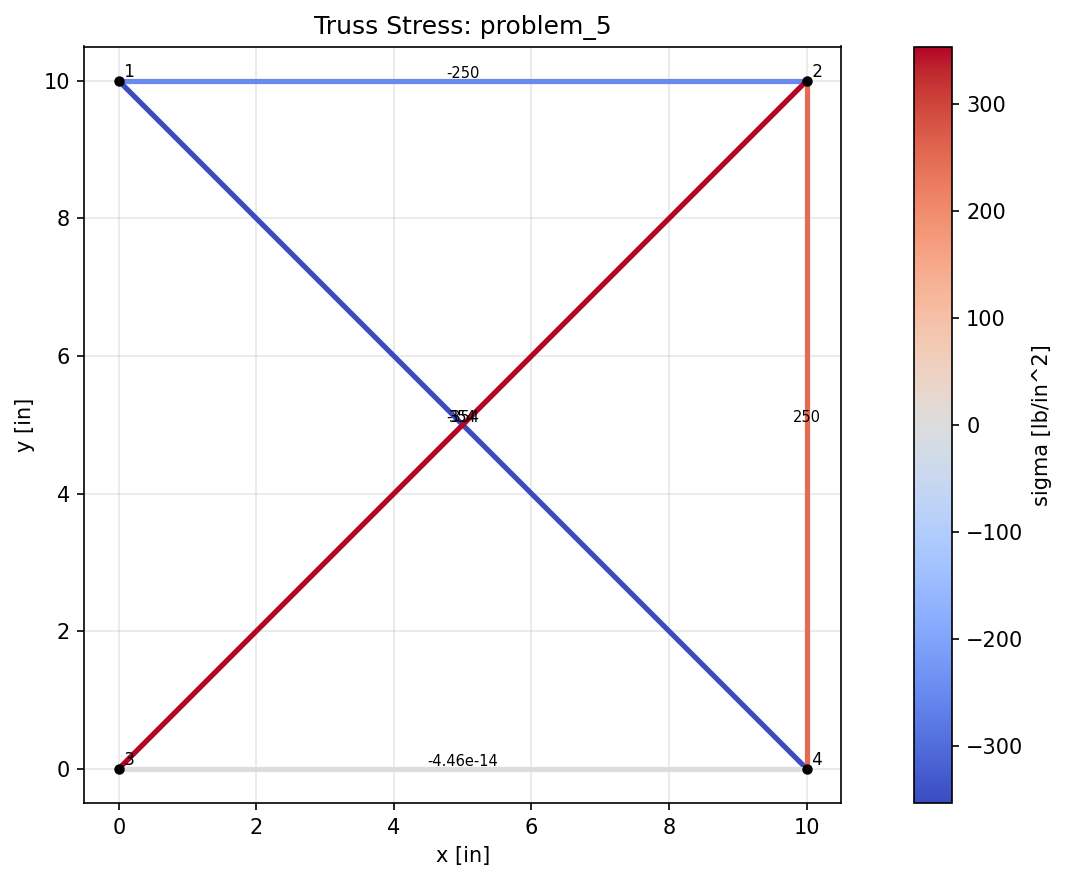
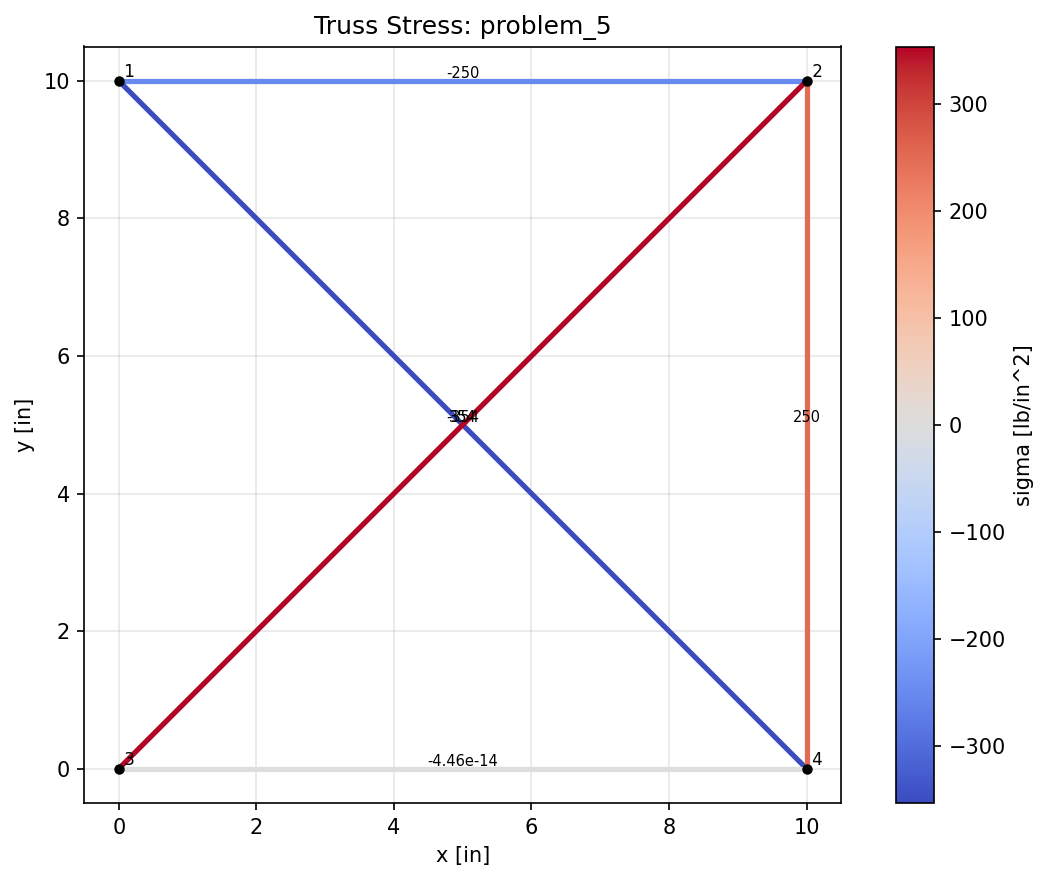
Fixed force gradient plot fitting next to truss

diff --git a/src/fea_solver/plotter.py b/src/fea_solver/plotter.py
@@ -40,6 +40,7 @@ from pathlib import Path
 import matplotlib.pyplot as plt
 from matplotlib.colors import Colormap, TwoSlopeNorm
 from matplotlib.cm import ScalarMappable
+from mpl_toolkits.axes_grid1 import make_axes_locatable
 import numpy as np
 
 from fea_solver.models import DOFType, ElementResult, FEAModel, MemberBuckling, SolutionSeries
@@ -575,7 +576,9 @@ def plot_truss_forces(
 
     sm = ScalarMappable(cmap=cmap, norm=norm)
     sm.set_array([])
-    fig.colorbar(sm, ax=ax, label=f"N [{lbl['force']}]")
+    divider = make_axes_locatable(ax)
+    cax = divider.append_axes("right", size="5%", pad=0.1)
+    fig.colorbar(sm, cax=cax, label=f"N [{lbl['force']}]")
 
     ax.set_xlabel(f"x [{lbl['length']}]")
     ax.set_ylabel(f"y [{lbl['length']}]")
@@ -701,7 +704,9 @@ def plot_truss_deformed(
 
     sm = ScalarMappable(cmap=cmap, norm=norm)
     sm.set_array([])
-    fig.colorbar(sm, ax=ax, label=f"N [{lbl['force']}]")
+    divider = make_axes_locatable(ax)
+    cax = divider.append_axes("right", size="5%", pad=0.1)
+    fig.colorbar(sm, cax=cax, label=f"N [{lbl['force']}]")
 
     ax.set_xlabel(f"x [{lbl['length']}]")
     ax.set_ylabel(f"y [{lbl['length']}]")
@@ -774,7 +779,9 @@ def plot_truss_stress(
 
     sm = ScalarMappable(cmap=cmap, norm=norm)
     sm.set_array([])
-    fig.colorbar(sm, ax=ax, label=f"sigma [{stress_unit}]")
+    divider = make_axes_locatable(ax)
+    cax = divider.append_axes("right", size="5%", pad=0.1)
+    fig.colorbar(sm, cax=cax, label=f"sigma [{stress_unit}]")
 
     ax.set_xlabel(f"x [{lbl['length']}]")
     ax.set_ylabel(f"y [{lbl['length']}]")
